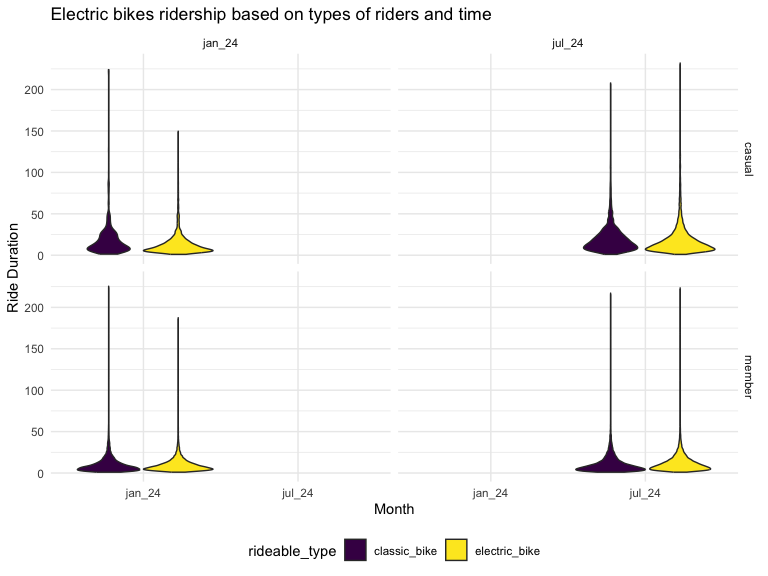
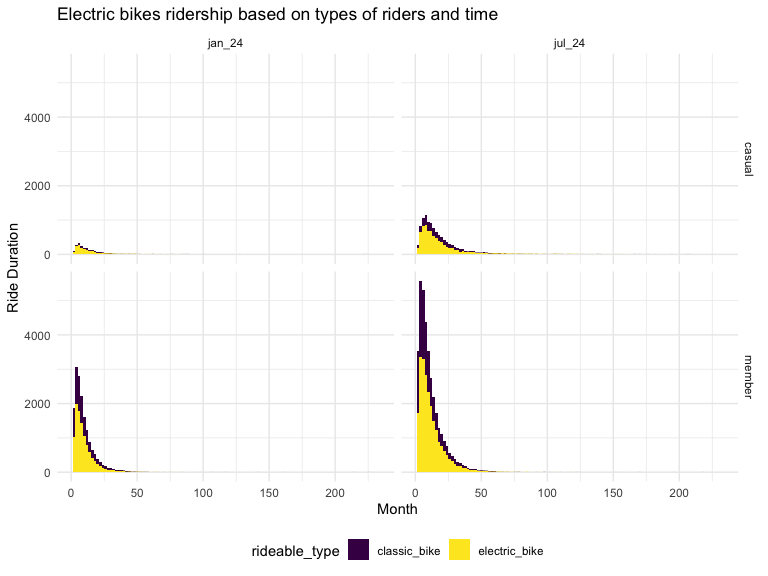
commenting on data

diff --git a/p8105_hw3_tp2879.md b/p8105_hw3_tp2879.md
@@ -8,28 +8,10 @@ P8105 Homework 3
 ``` r
 accel_df = read_csv(file = "./hw3_data/nhanes_accel.csv") |> 
   janitor::clean_names()
-```
 
-    ## Rows: 250 Columns: 1441
-    ## ── Column specification ────────────────────────────────────────────────────────
-    ## Delimiter: ","
-    ## dbl (1441): SEQN, min1, min2, min3, min4, min5, min6, min7, min8, min9, min1...
-    ## 
-    ## ℹ Use `spec()` to retrieve the full column specification for this data.
-    ## ℹ Specify the column types or set `show_col_types = FALSE` to quiet this message.
-
-``` r
 covar_df = read_csv(file = "./hw3_data/nhanes_covar.csv", skip = 4) |> 
   janitor::clean_names()
 ```
-
-    ## Rows: 250 Columns: 5
-    ## ── Column specification ────────────────────────────────────────────────────────
-    ## Delimiter: ","
-    ## dbl (5): SEQN, sex, age, BMI, education
-    ## 
-    ## ℹ Use `spec()` to retrieve the full column specification for this data.
-    ## ℹ Specify the column types or set `show_col_types = FALSE` to quiet this message.
 
 ``` r
 nhanes_df = accel_df |> 
@@ -128,9 +110,17 @@ total_df |>
        y = "Total Activity over 24 hours")
 ```
 
-    ## `geom_smooth()` using method = 'loess' and formula = 'y ~ x'
-
 <img src="p8105_hw3_tp2879_files/figure-gfm/unnamed-chunk-6-1.png" width="90%" />
+
+Based on the plot it is clear that women across all education categories
+have higher total activity compared to men until age 50. This trend
+continues for those in the ‘High school equivalent’ and ‘More than high
+school’ categories, however, males have more total activity than females
+after age 50 in the ‘Less than high school’ category. In the ‘high
+school equivalent’ category, there is a sharp jump in female total
+activity around age 30 and begins to decrease and level to that of males
+around age 50. In the ‘More than high school’ category, it seems that
+male activity drops around age 60 compared to females.
 
 ## 24-hour activity time courses for each education level
 
@@ -144,11 +134,8 @@ panel_df =
     min1:min1440, 
     names_to = "minutes",
     values_to = "activity"
-  )
+  ) 
 ```
-
-    ## `summarise()` has grouped output by 'sex'. You can override using the `.groups`
-    ## argument.
 
 ``` r
 panel_df |> 
@@ -161,9 +148,17 @@ panel_df |>
   )
 ```
 
-    ## `geom_smooth()` using method = 'loess' and formula = 'y ~ x'
-
 <img src="p8105_hw3_tp2879_files/figure-gfm/unnamed-chunk-8-1.png" width="90%" />
+
+Based on this graph, one can conclude that since minute 0 corresponds to
+midnight or 12AM that is is when people are going to sleep and winding
+down from the day. This explains the gradual decline in activity
+patterns until about a third into the progression. By then it is the
+time when people are waking up and getting ready for the day. This is
+where the progression is seen to be increasing and slowly keeping
+steadty until the last few hours of the day. Females, especially those
+in the ‘More than high school’ education category, tend to have more
+total activity throughout the day compared to males.
 
 # Problem 3
 
@@ -175,72 +170,33 @@ jan_2020 = read_csv(file = "./hw3_data/Jan_2020_Citi.csv") |>
   janitor::clean_names() |> 
   mutate(month_year = "jan_20") |> 
   select(month_year, everything())
-```
 
-    ## Rows: 12420 Columns: 7
-    ## ── Column specification ────────────────────────────────────────────────────────
-    ## Delimiter: ","
-    ## chr (6): ride_id, rideable_type, weekdays, start_station_name, end_station_n...
-    ## dbl (1): duration
-    ## 
-    ## ℹ Use `spec()` to retrieve the full column specification for this data.
-    ## ℹ Specify the column types or set `show_col_types = FALSE` to quiet this message.
-
-``` r
 jan_2024 = read_csv(file = "./hw3_data/Jan_2024_Citi.csv") |> 
   drop_na() |> 
   janitor::clean_names() |> 
   mutate(month_year = "jan_24") |> 
   select(month_year, everything())
-```
 
-    ## Rows: 18861 Columns: 7
-    ## ── Column specification ────────────────────────────────────────────────────────
-    ## Delimiter: ","
-    ## chr (6): ride_id, rideable_type, weekdays, start_station_name, end_station_n...
-    ## dbl (1): duration
-    ## 
-    ## ℹ Use `spec()` to retrieve the full column specification for this data.
-    ## ℹ Specify the column types or set `show_col_types = FALSE` to quiet this message.
-
-``` r
 july_2020 = read_csv(file = "./hw3_data/July_2020_Citi.csv") |>  
   drop_na() |> 
   janitor::clean_names() |> 
   mutate(month_year = "jul_20") |> 
   select(month_year, everything())
-```
 
-    ## Rows: 21048 Columns: 7
-    ## ── Column specification ────────────────────────────────────────────────────────
-    ## Delimiter: ","
-    ## chr (6): ride_id, rideable_type, weekdays, start_station_name, end_station_n...
-    ## dbl (1): duration
-    ## 
-    ## ℹ Use `spec()` to retrieve the full column specification for this data.
-    ## ℹ Specify the column types or set `show_col_types = FALSE` to quiet this message.
-
-``` r
 july_2024 = read_csv(file = "./hw3_data/July_2024_Citi.csv") |>
   drop_na() |> 
   janitor::clean_names() |> 
   mutate(month_year = "jul_24") |> 
   select(month_year, everything())
-```
 
-    ## Rows: 47156 Columns: 7
-    ## ── Column specification ────────────────────────────────────────────────────────
-    ## Delimiter: ","
-    ## chr (6): ride_id, rideable_type, weekdays, start_station_name, end_station_n...
-    ## dbl (1): duration
-    ## 
-    ## ℹ Use `spec()` to retrieve the full column specification for this data.
-    ## ℹ Specify the column types or set `show_col_types = FALSE` to quiet this message.
-
-``` r
 citibike_df = 
   bind_rows(jan_2020, jan_2024, july_2020, july_2024)
 ```
+
+There are 4 data sets including data for Citi Bike from January 2020,
+January 2024, July 2020 and July 2024. The variables within each data
+set are very similar and were therefore merged into the citibike data
+frame.
 
 ## Total number of rides in each combination of year and month, separating casual riders and Citi Bike members
 
@@ -265,6 +221,11 @@ citibike_df |>
 | jul_24     |  10843 |  36200 |
 
 Total number of rides by casual riders and Citi Bike members
+
+According to the table, there were far more members using Citi Bike
+across each month observed compared to casual riders. In addition, it it
+seems that both casual riding and member riding increased from January
+2020 to July 2024.
 
 ## 5 most popular starting stations for July 2024
 
@@ -304,10 +265,16 @@ citibike_df |>
   )
 ```
 
-    ## `summarise()` has grouped output by 'month_year'. You can override using the
-    ## `.groups` argument.
-
 <img src="p8105_hw3_tp2879_files/figure-gfm/unnamed-chunk-12-1.png" width="90%" />
+
+It is clear, according to the plot, that July 2020 had the highest
+ridership median compared to January 2024 which had the lowest. This may
+be due to the pandemic and summer weather in which many people prefered
+to be outdoors. Ridership was generally higher in July 2020 and July
+2024 compared to January 2020 and January 2024, which can be
+attributable to the summer weather. In addition, Saturday and Sunday
+have the most ridership compared to other days of the week, except in
+January 2024, the most ridership was on Friday and Saturday.
 
 ## Impact of month, membership status, and bike type on the ditribution of ride duration
 
@@ -316,8 +283,8 @@ citibike_df |>
   group_by(month_year, rideable_type, member_casual) |> 
   select(month_year, rideable_type, member_casual, duration) |> 
   filter(month_year %in% c("jan_24", "jul_24")) |> 
-  ggplot(aes(x = month_year, y = duration, fill = rideable_type)) +
-  geom_violin() +
+  ggplot(aes(x = duration, fill = rideable_type)) +
+  geom_histogram(binwidth = 2) +
   facet_grid(member_casual ~ month_year) +
   labs(
     title = "Electric bikes ridership based on types of riders and time",
@@ -328,3 +295,11 @@ citibike_df |>
 ```
 
 <img src="p8105_hw3_tp2879_files/figure-gfm/unnamed-chunk-13-1.png" width="90%" />
+
+Based on the plot, it is clear that members using a classic bike have a
+longer ride duration compared to members using electric bikes, which is
+prevalent in January 2024, but dramatically increases in July 2024. For
+casual riders, there are slightly longer durations while using a classic
+bike than a Citi Bike during July 2024, however, casual members used
+classic bike and electric bikes and nearly the same rate in January
+2024.
